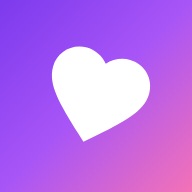
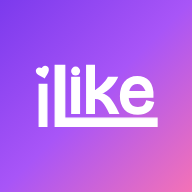
Add files via upload

Changed region(s): [[0.1875, 0.2188, 0.8438, 0.75]]

diff --git a/index.html b/index.html
@@ -8,9 +8,11 @@
 <meta name="apple-mobile-web-app-capable" content="yes">
 <meta name="apple-mobile-web-app-title" content="iLike">
 <meta name="apple-mobile-web-app-status-bar-style" content="default">
-<link rel="manifest" href="manifest.webmanifest">
-<link rel="icon" type="image/png" href="assets/icon-192.png">
-<link rel="apple-touch-icon" href="assets/apple-touch-icon.png">
+<link rel="manifest" href="manifest.webmanifest?v=2">
+<link rel="icon" type="image/svg+xml" href="assets/favicon.svg?v=2">
+<link rel="icon" type="image/png" sizes="32x32" href="assets/favicon-32.png?v=2">
+<link rel="icon" type="image/png" sizes="48x48" href="assets/favicon-48.png?v=2">
+<link rel="apple-touch-icon" href="assets/apple-touch-icon.png?v=2">
 <title>iLike</title>
 <meta name="description" content="Find people who like what you like.">
 <meta property="og:title" content="iLike">
